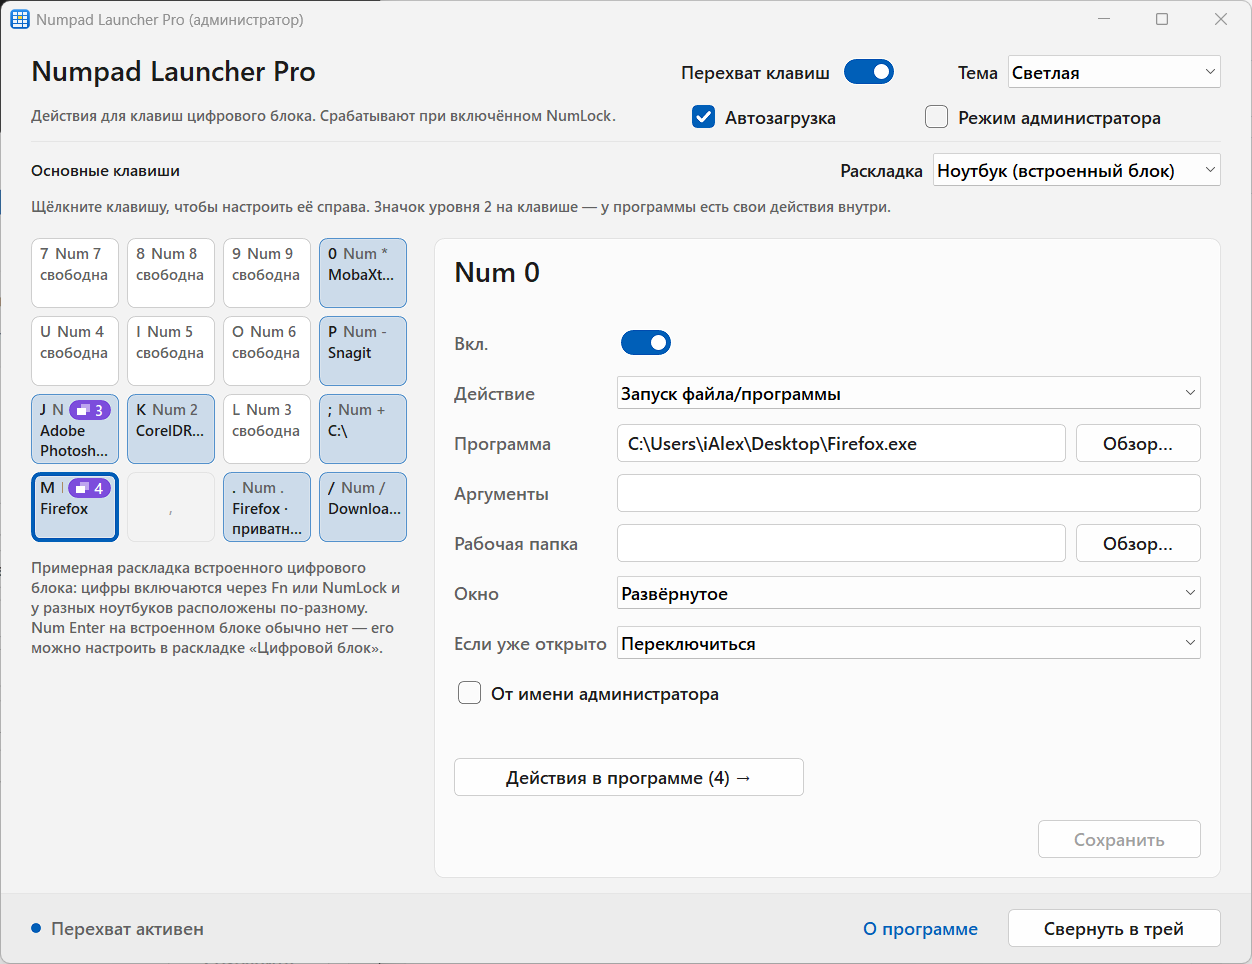
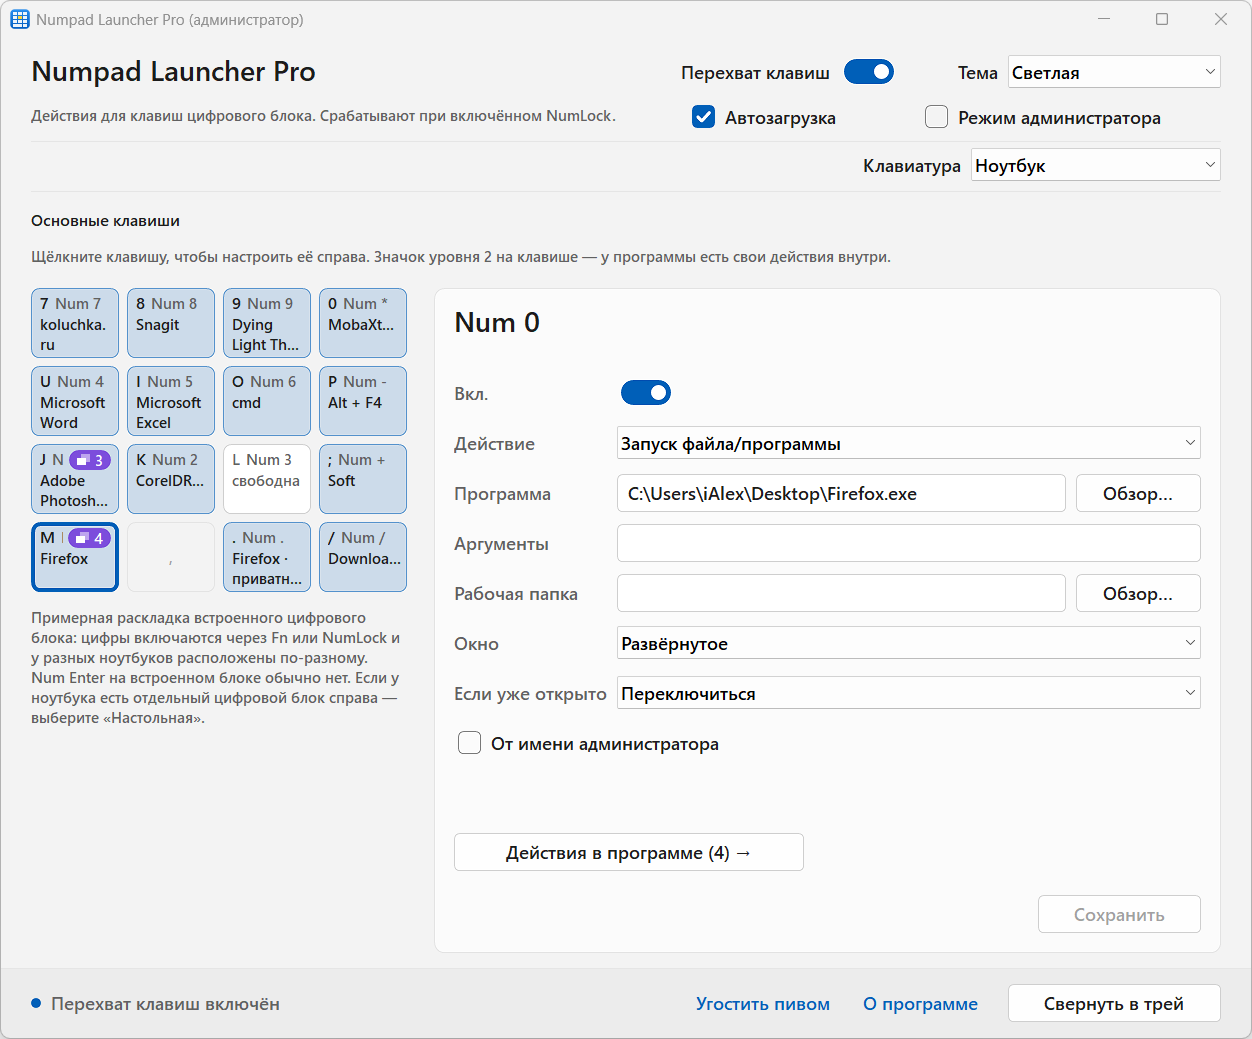
Numpad Launcher Pro 1.4.0

diff --git a/LICENSE.md b/LICENSE.md
@@ -11,7 +11,7 @@ The same text is shown in the program (About → License agreement) and in the i
 
 ```
 ЛИЦЕНЗИОННОЕ СОГЛАШЕНИЕ С КОНЕЧНЫМ ПОЛЬЗОВАТЕЛЕМ
-Numpad Launcher Pro, версия 1.3.0
+Numpad Launcher Pro, версия 1.4.0
 
 Правообладатель: Predteche (далее — «Автор»), сайт: https://koluchka.ru
 
@@ -34,9 +34,10 @@ Numpad Launcher Pro, версия 1.3.0
 3.2. Запрещается продавать Программу, сдавать её в аренду, взимать плату за её копирование, загрузку или предоставление доступа к ней, а также включать Программу в платные сборники, пакеты и дистрибутивы без письменного разрешения Автора.
 
 4. ИЗМЕНЕНИЕ ПРОГРАММЫ
-4.1. Изменение Программы (модификация, переработка, создание производных версий) допускается только при обязательном указании авторства: имени Автора «Predteche» и адреса сайта «koluchka.ru» — в окне «О программе» и в сопроводительной документации изменённой версии, с пометкой, что версия изменена не Автором.
-4.2. Запрещается удалять, скрывать или изменять сведения об авторстве, а также выдавать Программу или её изменённую версию за собственную разработку.
-4.3. На изменённые версии распространяются условия разделов 3 и 4 настоящего соглашения, в том числе запрет продажи.
+4.1. Изменение Программы (модификация, переработка, создание производных версий) запрещено без предварительного письменного согласия Автора. Запросить согласие можно через сайт «koluchka.ru».
+4.2. Изменённая с согласия Автора версия должна содержать сведения об авторстве — имя Автора «Predteche» и адрес сайта «koluchka.ru» в окне «О программе» и в сопроводительной документации — с пометкой, что версия изменена не Автором, если в согласии Автора не указано иное.
+4.3. Запрещается удалять, скрывать или изменять сведения об авторстве, а также выдавать Программу или её изменённую версию за собственную разработку.
+4.4. На изменённые версии распространяются условия разделов 3 и 4 настоящего соглашения, в том числе запрет продажи.
 
 5. ОТКАЗ ОТ ГАРАНТИЙ
 5.1. Программа предоставляется «как есть» (as is), без каких-либо явных или подразумеваемых гарантий, включая, помимо прочего, гарантии пригодности для определённой цели, бесперебойной и безошибочной работы, совместимости с другим программным обеспечением и оборудованием.
@@ -64,7 +65,7 @@ Numpad Launcher Pro, версия 1.3.0
 
 ```
 END USER LICENSE AGREEMENT
-Numpad Launcher Pro, version 1.3.0
+Numpad Launcher Pro, version 1.4.0
 
 Copyright holder: Predteche (the "Author"), website: https://koluchka.ru
 
@@ -87,9 +88,10 @@ Please read this agreement carefully. By installing, copying or otherwise using 
 3.2. You may not sell or rent the Software, charge any fee for copying, downloading or providing access to it, or include it in paid collections, bundles or distributions without the Author's written permission.
 
 4. MODIFICATION
-4.1. Modifying the Software (altering, adapting or creating derivative versions) is permitted only with mandatory attribution: the Author's name "Predteche" and the website "koluchka.ru" must be shown in the "About" window and in the accompanying documentation of the modified version, together with a notice that the version has been modified by someone other than the Author.
-4.2. You may not remove, hide or alter the authorship information, or present the Software or a modified version of it as your own work.
-4.3. Modified versions are subject to sections 3 and 4 of this agreement, including the prohibition on sale.
+4.1. Modifying the Software (altering, adapting or creating derivative versions) is prohibited without the Author's prior written consent. Consent can be requested via the website "koluchka.ru".
+4.2. A version modified with the Author's consent must contain the authorship information — the Author's name "Predteche" and the website "koluchka.ru" in the "About" window and in the accompanying documentation — marked as modified by someone other than the Author, unless the Author's consent states otherwise.
+4.3. You may not remove, hide or alter the authorship information, or present the Software or a modified version of it as your own work.
+4.4. Modified versions are subject to sections 3 and 4 of this agreement, including the prohibition on sale.
 
 5. DISCLAIMER OF WARRANTY
 5.1. The Software is provided "as is", without warranty of any kind, express or implied, including but not limited to warranties of fitness for a particular purpose, uninterrupted or error-free operation, and compatibility with other software or hardware.

diff --git a/CHANGELOG.md b/CHANGELOG.md
@@ -2,6 +2,40 @@
 
 Формат: [Keep a Changelog](https://keepachangelog.com/ru/1.1.0/). Английская версия описаний — в текстах релизов на GitHub.
 
+## [1.4.0] — 2026-10-08
+
+### Добавлено
+- **Проверка обновлений** — кнопка «Проверить обновление» в окне «О программе» и пункт в меню трея (над «О программе»). Программа сверяется с последним релизом на GitHub и, если есть новая версия, предлагает открыть страницу загрузки. Сама программа в интернет не обращается — только по этой кнопке; ничего не скачивает.
+- **«Угостить пивом»** — ссылка внизу окна «Настройки» рядом с «О программе» и кнопка в окне «О программе», под ней — QR-код для оплаты с телефона.
+
+### Изменено
+- **Цвет значка в трее показывает режим** и больше не зависит от текущего состояния NumLock: зелёный — обычный режим и «При включённом NumLock», синий — «При выключенном NumLock», тёмно-красный — двойной режим, серый — перехват выключен.
+- Подсказка над значком в трее и строка состояния — просто «Перехват клавиш включён / выключен».
+- В меню трея вместо «Выключить / Включить перехват» — пункт **«Перехват клавиш» с галочкой**, как в окне.
+- Шапка окна «Настройки»: описание экспериментального режима убрано в значок (i) рядом с ползунком; выбор клавиатуры перенесён в ту же строку справа и называется **«Клавиатура»: «Настольная» / «Ноутбук»** (было «Раскладка: Цифровой блок / Ноутбук»).
+- **Лицензия:** изменение программы теперь запрещено без письменного согласия автора (было — разрешено с указанием автора).
+
+### Исправлено
+- Значок в трее мог быть серым при включённом перехвате (1.3.1).
+- Начальное состояние NumLock определяется надёжнее (раньше у фонового окна оно могло быть устаревшим).
+
+## [1.3.1] — 2026-10-08
+
+### Добавлено
+- **Экспериментальный режим** — ползунок в шапке окна «Настройки». Во включённом режиме — три варианта, у каждого значок (i) с подсказкой:
+  - **При включённом NumLock** — как раньше (по умолчанию);
+  - **При выключенном NumLock** — инверсия: действия срабатывают, когда NumLock выключен, а с включённым цифровой блок набирает цифры;
+  - **Двойной режим** — два набора основных клавиш (до 32 действий): «NumLock вкл» и «NumLock выкл», клавиша NumLock переключает наборы. Какой набор настраивать, выбирается над схемой клавиш. «Клавиши в программе» общие и работают при любом NumLock.
+- Предупреждение при включении режима с флажком «Больше не показывать».
+- Цвет значка в трее показывает, работает ли перехват прямо сейчас: зелёный — при включённом NumLock, синий — при выключенном, тёмно-красный — двойной режим, серый — перехват выключен или при текущем NumLock не действует.
+- Строка состояния внизу окна и подсказка значка в трее говорят, какой режим и набор действуют сейчас.
+
+### Изменено
+- Состояние NumLock уточняется по каждой нажатой клавише цифрового блока — не сбивается, если NumLock переключили на экране блокировки или другой программой.
+- На раскладке «Ноутбук» экспериментальный режим скрыт и не действует (без NumLock встроенный блок — это буквы); при возврате к «Цифровому блоку» выбор восстанавливается.
+- Одиночное нажатие мастер-клавиши Num 0 без своего действия при выключенном NumLock работает как Insert.
+- Формат настроек — версия 5 (новые поля `experimental`, `numLockMode`, `experimentalWarning`, `keysOff`); настройки прежних версий читаются как раньше.
+
 ## [1.3.0] — 2026-09-28
 
 ### Изменено

diff --git a/README.en.md b/README.en.md
@@ -43,7 +43,10 @@ While Photoshop is active, **Ctrl + Num 1** presses `Ctrl + Shift + Alt + M` for
 
 **Convenience**
 - A visual keypad map shows what each key does and which keys are free.
-- Laptop layout for embedded keypads (Fn or NumLock).
+- "Desktop" or "Laptop" keyboard — for laptops with an embedded keypad (Fn or NumLock).
+- **Experimental mode**: interception with NumLock off, or dual mode — two sets of 16 keys switched with the NumLock key.
+- The tray icon color shows the working mode.
+- Check for updates on demand — in the About window and the tray menu.
 - Launched programs come to the foreground.
 - Firefox private windows can be set up separately from normal ones.
 - Light and dark themes, crisp on any display scaling.
@@ -78,6 +81,18 @@ While Photoshop is active, **Ctrl + Num 1** presses `Ctrl + Shift + Alt + M` for
 
 Keys work while **NumLock is on**. Combinations with Ctrl, Alt, Shift and Win are not intercepted (except the chosen master key), so Alt codes and Shift + arrows keep working.
 
+## Experimental mode
+
+The "Experimental mode" switch in the Settings header opens three options (each with an (i) hint):
+
+- **When NumLock is on** — normal work.
+- **When NumLock is off** — the other way round: actions run with NumLock off, and with NumLock on the keypad types digits.
+- **Dual mode** — two sets of main keys, "NumLock on" and "NumLock off", up to 32 actions. The NumLock key switches the sets; choose the set to edit above the key map. In-app shortcuts are shared by both sets.
+
+The separate arrow keys are not affected, and only keypad keys that have an action are taken. Some keyboards (wireless, via KVM switches) can't tell the keypad from the arrow keys with NumLock off — the mode may work incorrectly with them. Not available with the "Laptop" keyboard.
+
+**Tray icon:** green — normal mode (interception with NumLock on), blue — with NumLock off, dark red — dual mode, grey — interception is off.
+
 ## Administrator mode
 
 Windows does not deliver simulated keystrokes to windows running as administrator. Turn on "Administrator mode" in the settings or the tray menu — Windows asks once, and from then on the program starts through Task Scheduler without prompts. Programs you launch with keys still start with normal rights.
@@ -86,11 +101,13 @@ Available only when installed "for all users" (in Program Files).
 
 ## FAQ
 
-**Keys do nothing.** Make sure NumLock and "Key interception" are on. While the settings window is active, digits are typed as usual — by design.
+**Keys do nothing.** Check the "Key interception" switch (a grey tray icon means it is off) and NumLock: it must be on in normal mode and off in "When NumLock is off" mode. While the settings window is active, digits are typed as usual — by design.
 
 **A shortcut doesn't reach the program.** The program is probably running as administrator. Turn on administrator mode.
 
-**How do I pause everything?** Right-click the tray icon → "Disable interception".
+**How do I pause everything?** Right-click the tray icon and uncheck "Key interception".
+
+**How do I find out about a new version?** About → "Check for updates", or right-click the tray icon → "Check for updates". The program never goes online by itself — only via this button.
 
 **Where are the settings?** In `%AppData%\NumpadLauncher\config.json`. You can copy it to another computer.
 
@@ -100,7 +117,9 @@ Available only when installed "for all users" (in Program Files).
 
 Numpad Launcher Pro is **free for personal, non-commercial use**. Use within companies, by sole proprietors or for profit requires a paid license — contact the author via [koluchka.ru](https://koluchka.ru).
 
-You may redistribute it free of charge and unmodified only; selling is prohibited. Modifying the source code is allowed only with attribution (Predteche, koluchka.ru). Full text: [LICENSE.md](LICENSE.md).
+You may redistribute it free of charge and unmodified only; selling is prohibited. Modifying the program or its source code without the author's written consent is prohibited. Full text: [LICENSE.md](LICENSE.md).
+
+If you find the program useful, you can [buy the author a beer](https://pay.cloudtips.ru/p/d91dc610) 🍺
 
 ---
 
